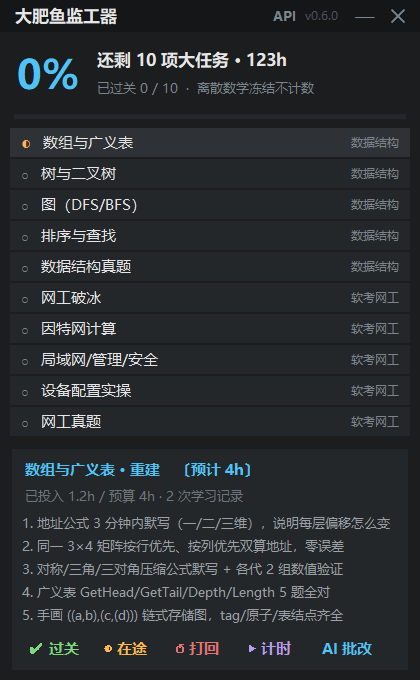
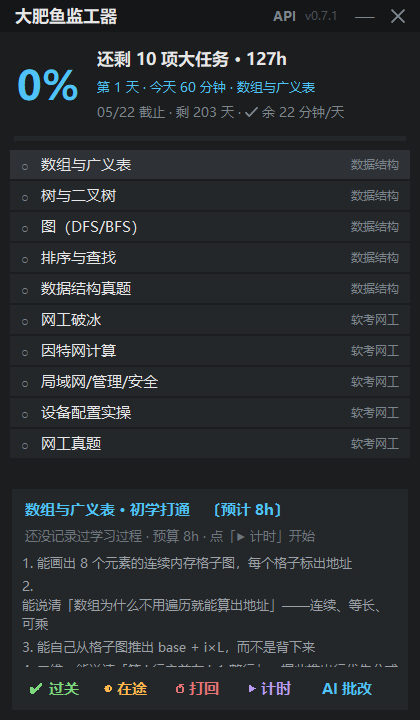
docs: 补充每日计划与目标差距章节，更新截图

diff --git a/README.md b/README.md
@@ -1,6 +1,6 @@
 # DaFeiYu · 大肥鱼监工器
 
-**当前版本 v0.7.1** · [变更记录](CHANGELOG.md) · [MIT](LICENSE) · Python 3.8+
+**当前版本 v0.8.0** · [变更记录](CHANGELOG.md) · [MIT](LICENSE) · Python 3.8+
 
 一个只管三件事的桌面悬浮窗：**你还剩几项没做、下一项是什么、怎么才算过关。**
 
@@ -43,6 +43,28 @@
 「学过」「看过」「报课了」都不算过关。`◐ 在途` 存在的唯一意义，是让你诚实标注自己的进度——它在总进度里**永远显示为 0**。
 
 任何一项都随时可以点 `↺ 打回`，退回 `待完成`，百分比立刻掉下去。这是整个项目的中心思想：**没有防回退的进度条，只是安慰剂。**
+
+## 每日计划：按日历切，不靠自觉
+
+程序按总工时和日历切分，每天一小块，像背单词应用那样：
+
+```
+0%            还剩 10 项大任务 · 127h
+              第 1 天 · 今天 60 分钟 · 数组与广义表
+              05/22 截止 · 剩 203 天 · ✓ 余 22 分钟/天
+```
+
+**第三行是核心指标。** 它算的是「剩下的工时 ÷ 剩下的学习日」——你只要每天做这个数，就能在目标日之前完成。发现自己每天要 90 分钟而实际只能做 40 分钟，那就要么推迟目标日，要么砍掉某项，别装作没看见。
+
+点这一行进入计划设置：
+
+- **每日配额**：30 / 45 / 60 / 90 / 120 快捷可选，也能自己填。今天有劲就调高，明天补不动就调低
+- **目标完成日**：填 `2027-05-22` 这类格式
+- **请假**：点一下当天不算欠账，能取消。请假的日子从「剩余学习日」里扣掉，每日需求会自动重算
+
+欠账只算**之前几天**的，今天这份还没到点不算欠。所以第一天打开永远是干净的 `第 1 天 · 今天 60 分钟`。
+
+无边框窗口默认不在任务栏，程序给它补了 `WS_EX_APPWINDOW`，标题栏 `—` 是真最小化（不是折叠），**从任务栏能找回来**。折叠成 32px 进度带改用双击标题栏。
 
 ## 学习过程记录：它管的不只是结果
 

diff --git a/CHANGELOG.md b/CHANGELOG.md
@@ -11,6 +11,31 @@
 
 ---
 
+## [0.8.0] - 2026-11-01
+
+### 新增
+
+- **日历驱动每日计划**：`tasks.json` 新增 `plan` 段（`start` / `deadline` / `minutes_per_day` / `leave_days`）。程序按总工时切分，算出「今天是第几天、今天该做哪一项」，不再靠手写周计划
+- **今日行**：`第 1 天 · 今天 60 分钟 · 数组与广义表`；欠账时变橙 `欠 45 分钟 · 先补再往前`，超额时 `提前 60 分钟`
+- **目标差距行**：`05/22 截止 · 剩 203 天 · ✓ 余 22 分钟/天`，落后时变红 `⚠ 需 38 分钟/天` —— 一眼看出这样下去赶不赶得上
+- **计划设置面板**：点今日行或差距行进入，可改每日配额（30/45/60/90/120 快捷键）、改目标完成日、**请假**（当天不算欠账，可取消）
+- **任务栏图标与最小化**：无边框窗口补 `WS_EX_APPWINDOW`，标题栏 `—` 改为真最小化（`ShowWindow SW_MINIMIZE`），从任务栏能找回来
+- 窗口高度 680 → 720，容纳三行进度信息
+
+### 修复
+
+- 「第 1 天」就算「落后 90 分钟」：改为只统计**之前几天**的欠账，今天这份还没到点不算欠
+- 进度区三行文字横向溢出被裁：缩短文案 `05/22 截止 · 剩 203 天 · ✓ 余 22 分钟/天`
+- 计划面板预览里的 `NameError: h`（生成器变量写错）
+
+### 已知问题
+
+- 请假只能按天粒度，不支持半天
+- 目标日改动后历史欠账不会重算，只影响之后的每日需求
+- 最小化恢复依赖系统行为，个别多显示器配置下窗口可能回到主屏
+
+---
+
 ## [0.7.1] - 2026-11-01
 
 ### 修复
